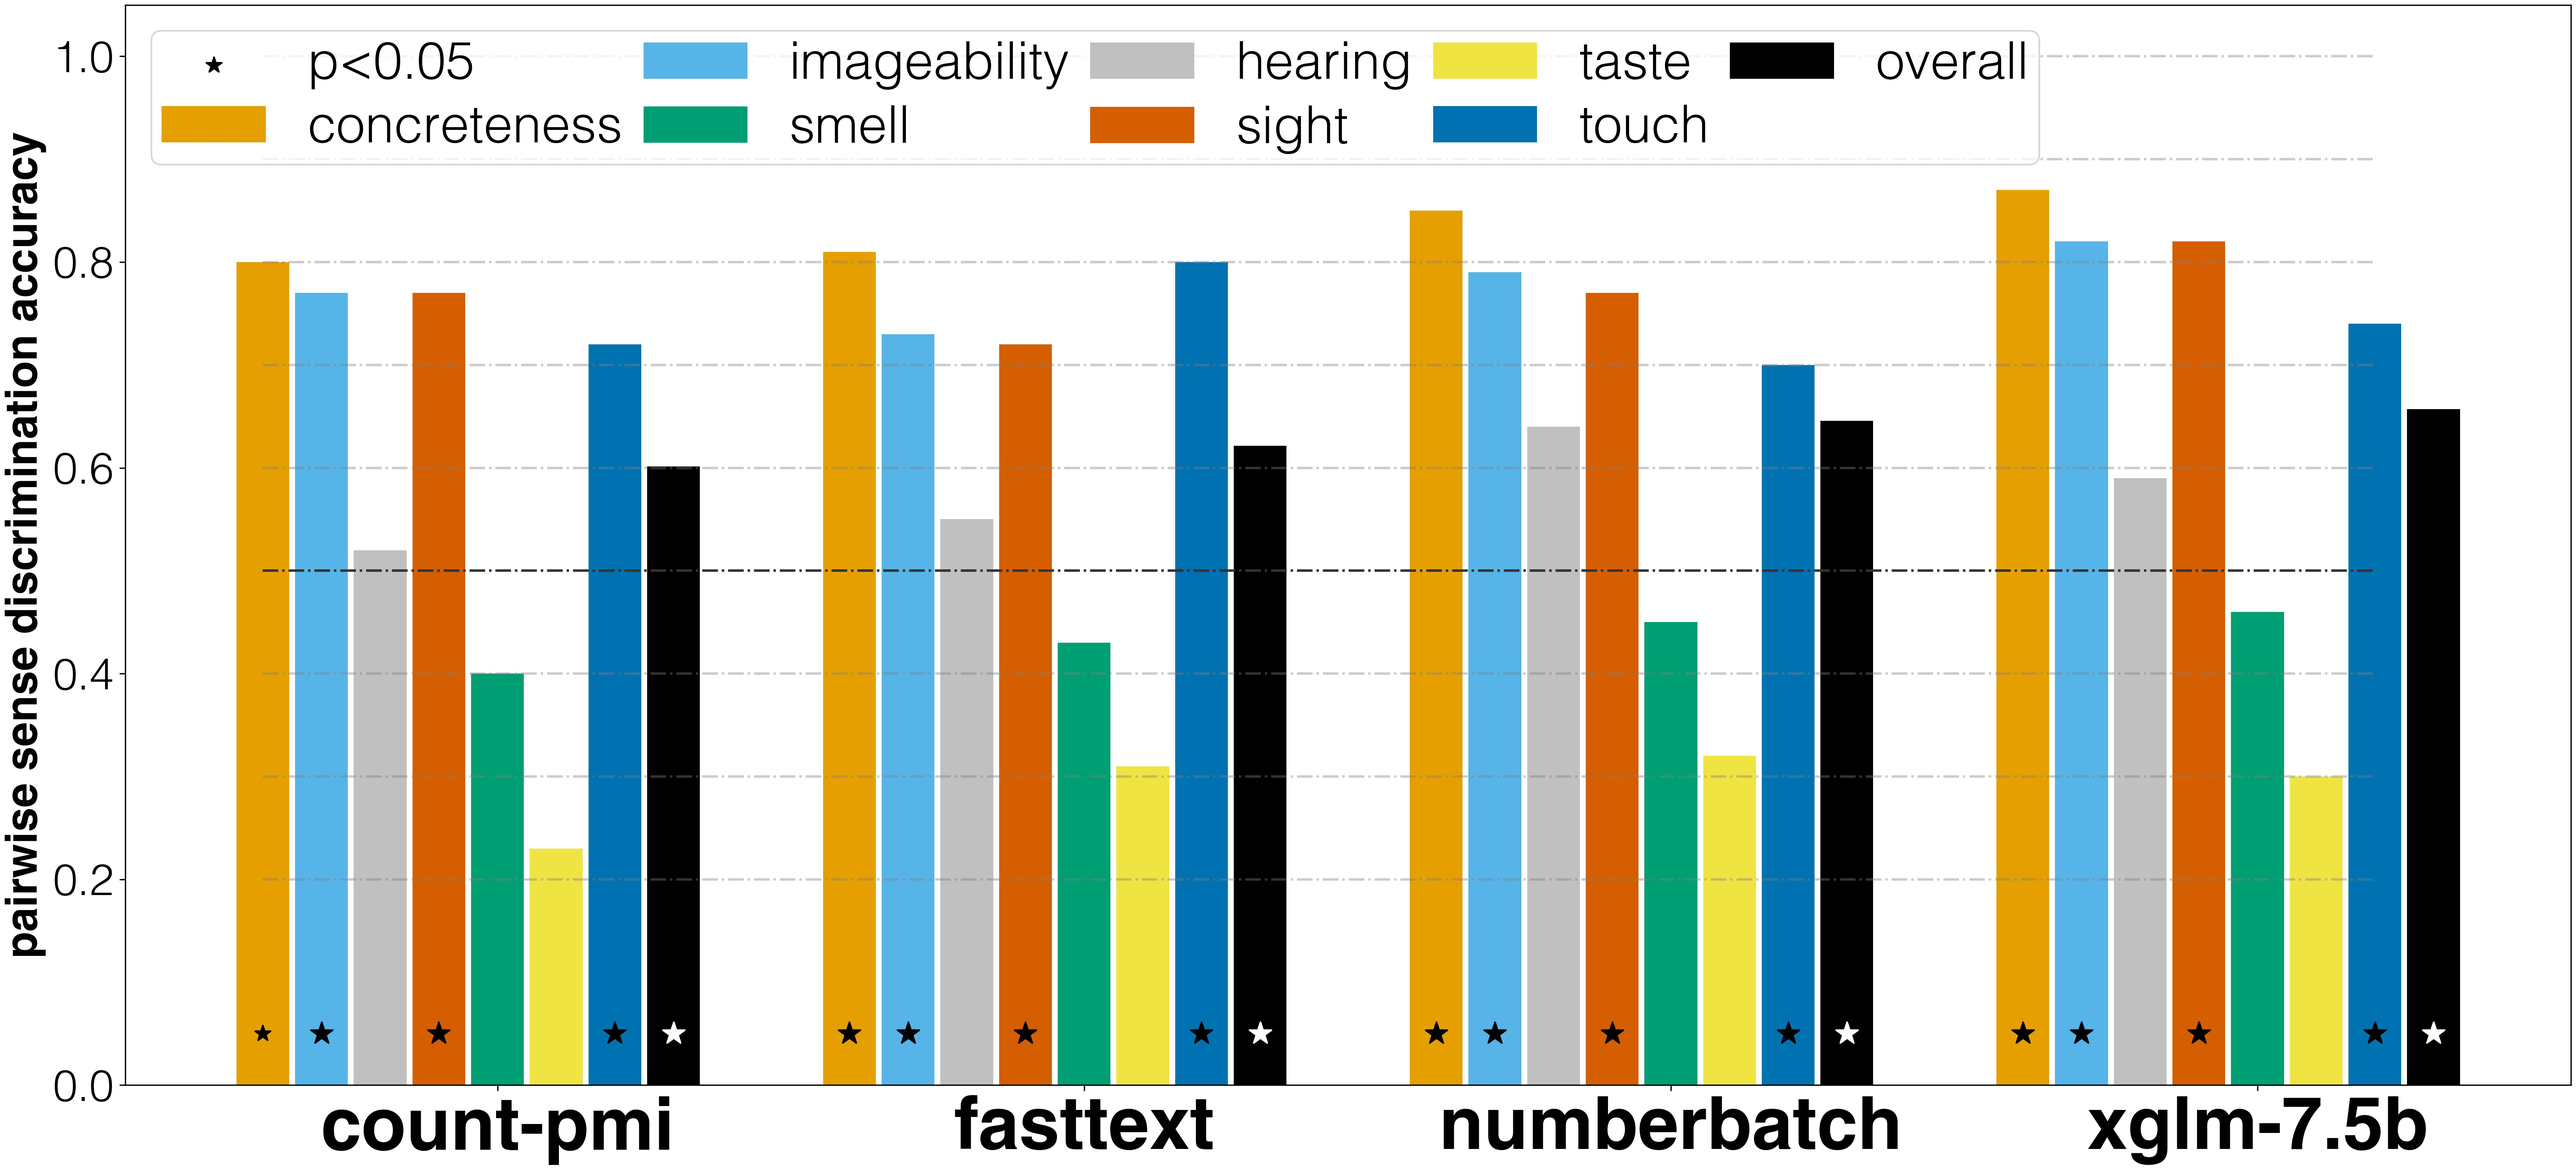
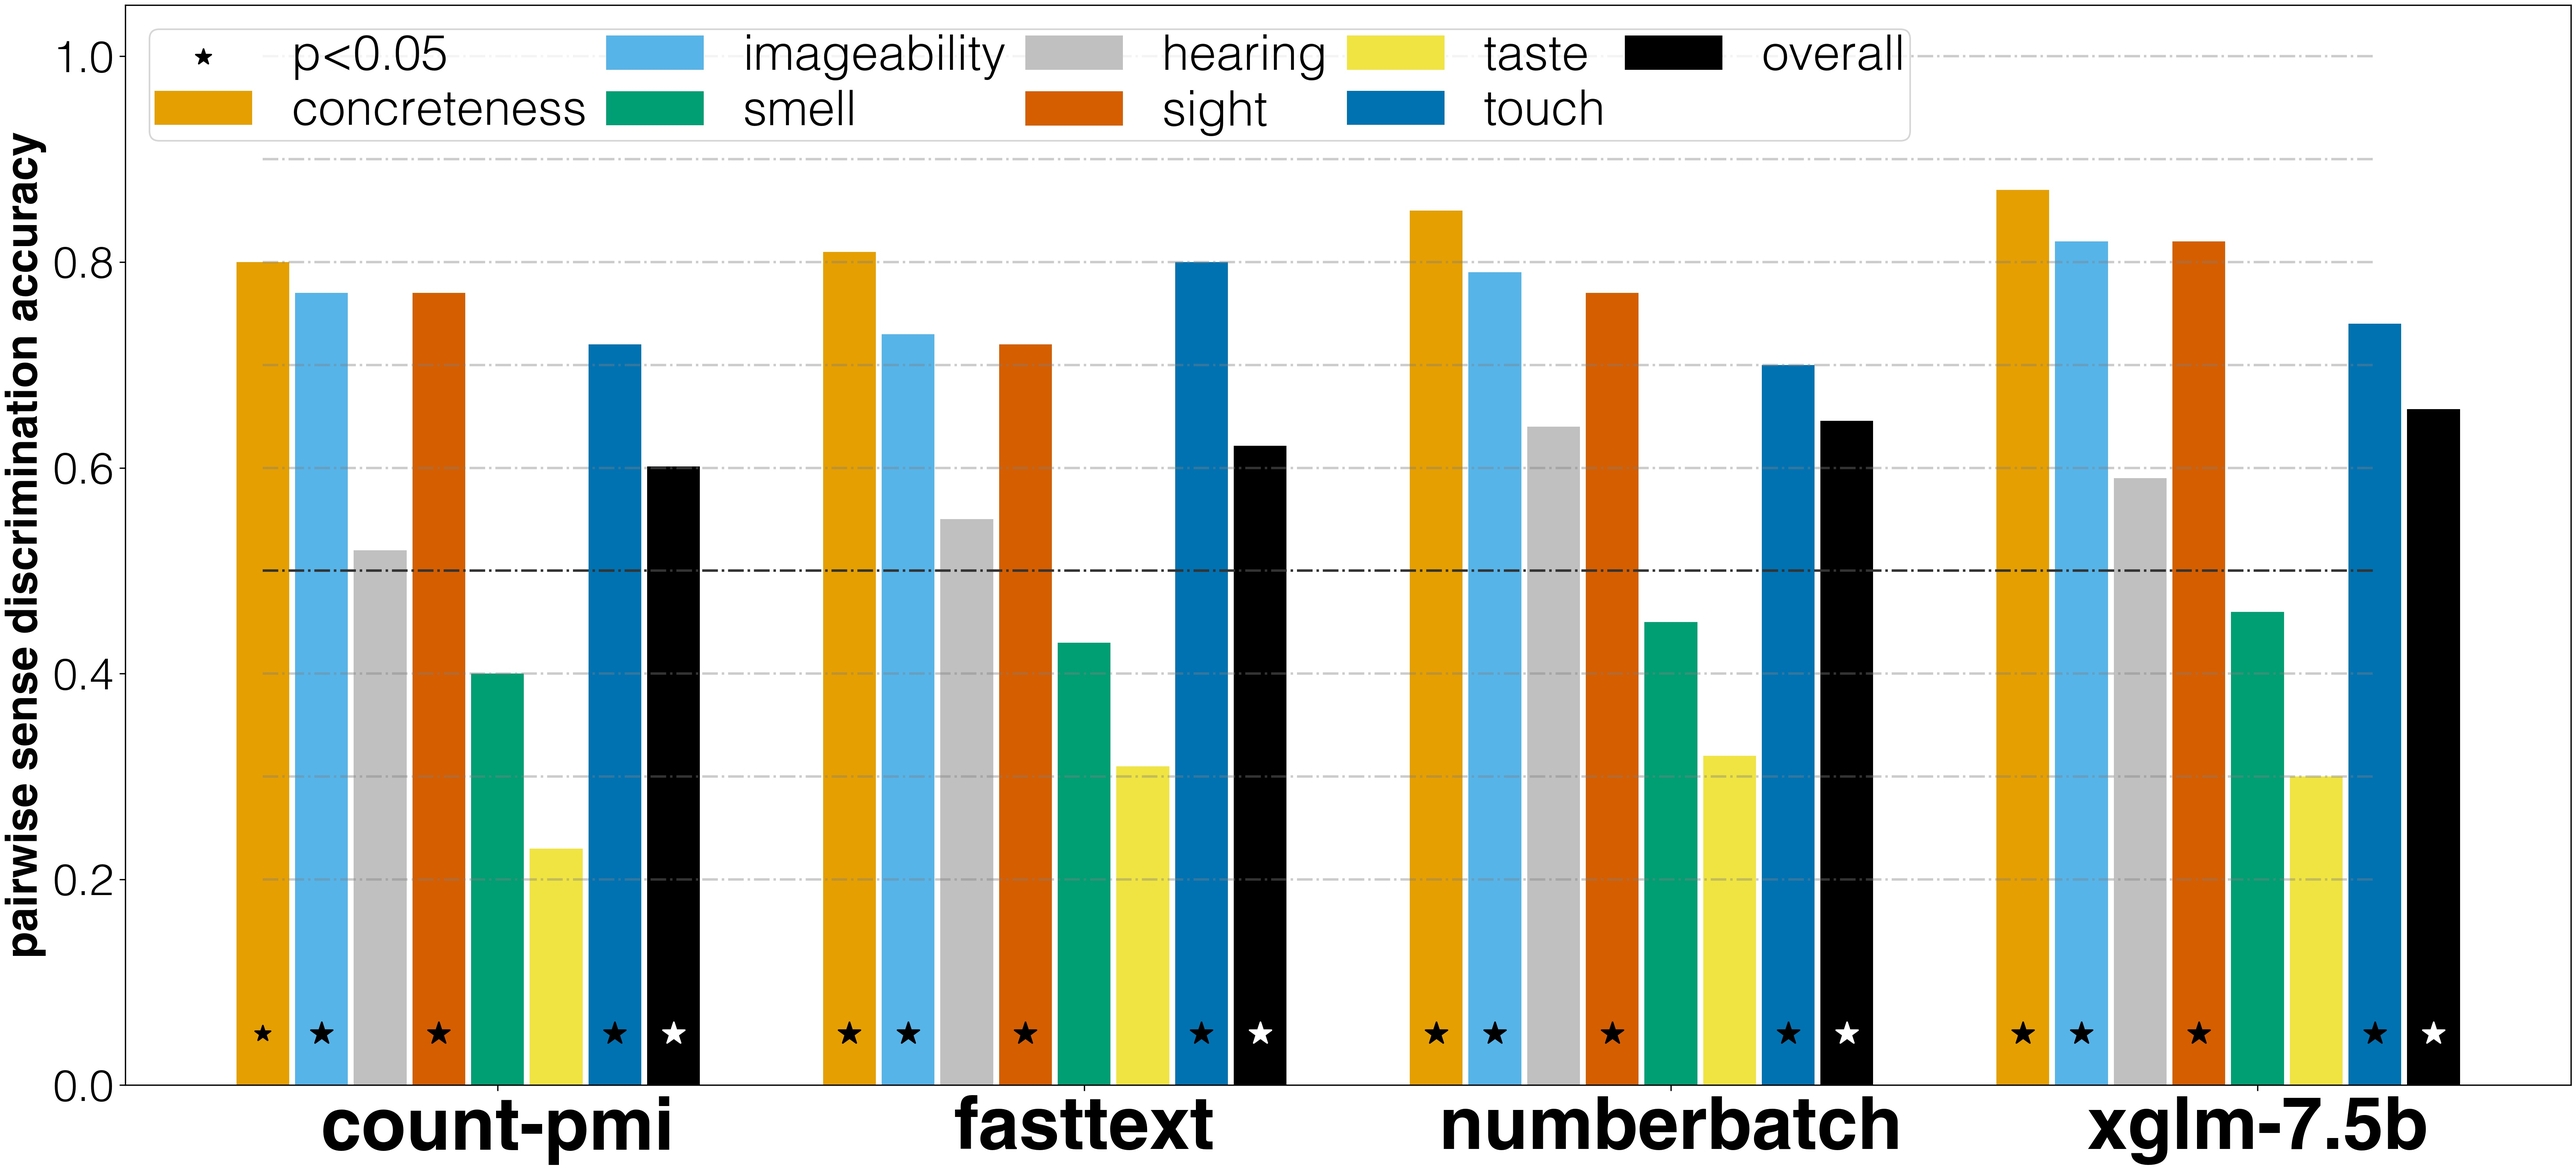
z

Changed region(s): [[0.0624, 0.0, 0.8115, 0.155]]

diff --git a/07_rsa_and_evaluation.py b/07_rsa_and_evaluation.py
@@ -526,13 +526,13 @@ ax.set_xticklabels(
                    )
 pyplot.yticks(fontsize=27)
 ax.legend(
-          fontsize=32, 
+          fontsize=30, 
           ncol=5, 
           loc=2, 
           #frameon=False, 
-          borderpad=0.2,
+          borderpad=0.1,
           columnspacing=.4,
-          labelspacing=.3,
+          labelspacing=.2,
           #framealpha=0.
           )
 ax.set_ylabel('pairwise sense discrimination accuracy', fontsize=27, fontweight='bold')
